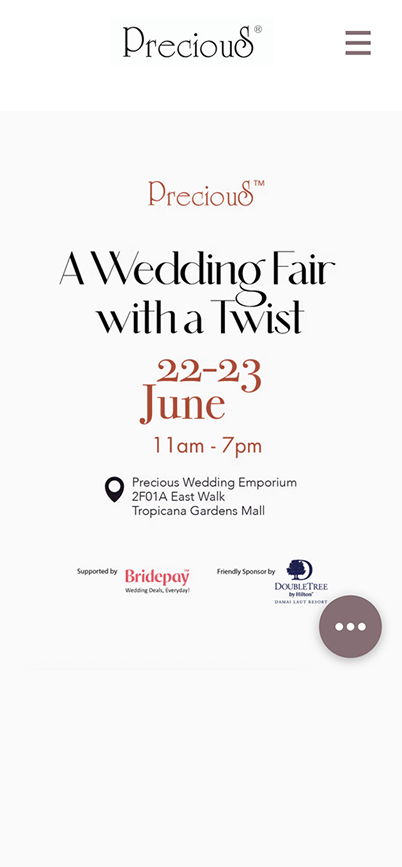
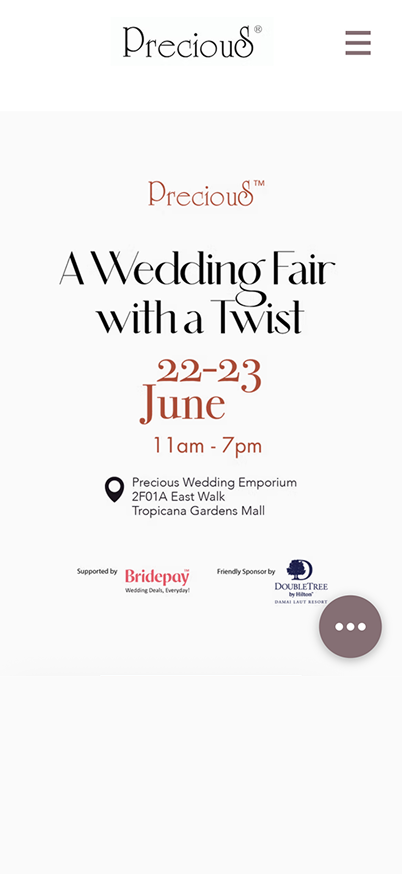
Add Precious Wedding to the case study template
Frame the hero in a phone on the crimson accent, show the Feedback
screenshots as phones, point RSVP step 3 at the form screenshot, and
take the updated Solution, Feedback and Results copy and the re-exported
June landing page.

diff --git a/portfolio-content/case-studies/precious-wedding/index.md b/portfolio-content/case-studies/precious-wedding/index.md
@@ -10,6 +10,11 @@ live_url: "https://www.theprecious.com.my/"
 order: 3
 cover: ./images/page-hero-aesthetic.png
 cover_alt: "Precious Wedding fair landing page with full-bleed couple photography and a Chat with us button"
+accent: "#911421"
+hero:
+  frame: phone
+  image: ./images/home-page-image-slider.png
+  alt: "Precious Wedding homepage on mobile, with a couple photo and the line We're ready to make memories with you"
 ---
 ## Overview
 <!-- layout: hero, title and overview left, browser mockup right -->
@@ -36,7 +41,7 @@ Precious Wedding's website worked, but its fair landing pages didn't carry the w
 *Wireframe of the section kit: hero, services, reviews, photo grid, CTA.*
 ## The Solution
 <!-- layout: one headline, body below, desktop view next to body and a row of phones under -->
-Each fair used to start from scratch. On Wix, I built a reusable kit: Cormorant Garamond and Cinzel for display, Futura for body text, and a crimson-led palette with crimson reserved for the main CTA. Pages were assembled from fixed sections (hero, services, reviews, photo grid, CTA) and re-skinned per campaign, so a new fair page meant swapping imagery, dates and offers, not redesigning. Every page was designed for desktop and mobile and shipped with titles, meta descriptions and keywords set for search.
+Each fair used to start from scratch. On Wix, I built a reusable kit: Cormorant Garamond for display, Futura for body text, and a crimson-led palette with crimson reserved for the main CTA. Pages were assembled from fixed sections (hero, services, reviews, photo grid, CTA) and re-skinned per campaign, so a new fair page meant swapping imagery, dates and offers, not redesigning. Every page was designed for desktop and mobile and shipped with titles, meta descriptions and keywords set for search.
 ![Event highlights page on desktop](./images/solution-image-01-laptop-view.png)
 *Event highlights on desktop.*
 ![A Wedding Fair with a Twist landing page, June 2024](./images/wedding-fair-june.png)
@@ -46,7 +51,7 @@ Each fair used to start from scratch. On Wix, I built a reusable kit: Cormorant 
 ![Precious Wedding Fair 3.0 landing page with RSVP button](./images/iteration-image-04-event-rsvp.png)
 *October 2024: Precious Wedding Fair 3.0.*
 ## Feedback and iteration
-<!-- layout: table, then three images in a row -->
+<!-- layout: table, then two phones in a row -->
 | Feedback | Source | Response |
 |---|---|---|
 | Every fair starts from a blank page; nothing carries over between campaigns. | Marketing Manager | Built a section kit (hero, services, reviews, photo grid, CTA). Each fair page was the same kit re-skinned with new imagery, dates and offers. |
@@ -56,8 +61,6 @@ Each fair used to start from scratch. On Wix, I built a reusable kit: Cormorant 
 | Blog: Recent Posts sit at the bottom, and the event posts are out of date. | Marketing Manager, Jan 2025 | Redesigned the blog layout and turned each fair into an event-highlights post with SEO titles and meta descriptions, maintained June 2024 – May 2025. |
 ![Chat with us button opening WhatsApp with a pre-filled source message](./images/iteration-image-01-whatsapp.png)
 *Chat with us, pre-filled WhatsApp.*
-![January 2025 festive hero with Chinese-costume photography](./images/iteration-image-02-festive-hero.png)
-*January 2025 festive hero.*
 ![Event-highlights post for A Wedding Fair with a Twist](./images/iteration-image-03-event-rsvp.png)
 *Event-highlights post: A Wedding Fair with a Twist.*
 ## RSVP flow
@@ -67,7 +70,7 @@ Visitors preferred the RSVP button, but a form click told sales nothing. I made 
 *1. Chat with us.*
 ![Step 2: WhatsApp opens with a pre-filled message naming the source](./images/iteration-image-01-whatsapp.png)
 *2. WhatsApp, pre-filled: "I saw your page from Google Ads…"*
-![Step 3: RSVP form in the editor view showing 82 responses](./images/iteration-image-01-whatsapp.png)
+![Step 3: RSVP form in the editor view showing 82 responses](./images/rsvp-google-form-bridal-fair.png)
 *3. RSVP form sent by sales. Editor view: 82 responses, Precious Wedding Fair 4.0, April 2025.*
 ## In-house wedding fair
 <!-- layout: body, then three photos in a row -->
@@ -87,9 +90,9 @@ The fairs brought couples to Precious Wedding Emporium at IOI Mall Damansara (fo
 *Mall LED-screen displays.*
 ## Results
 <!-- layout: stat cards, RSVP card first -->
-[June 2024 - July 2025] · Wix Analytics
+June 2024 - July 2025 · Wix Analytics RSVP from Google Forms
 - **82** RSVP form responses, Precious Wedding Fair 4.0, April 2025
-- **55,728** [site sessions]
+- **55,728** site sessions
 - **68%** of March 2025 sessions included the fair landing page (2,578 of 3,793)
 - **86%** of sessions on mobile
 ### What changed for the business
